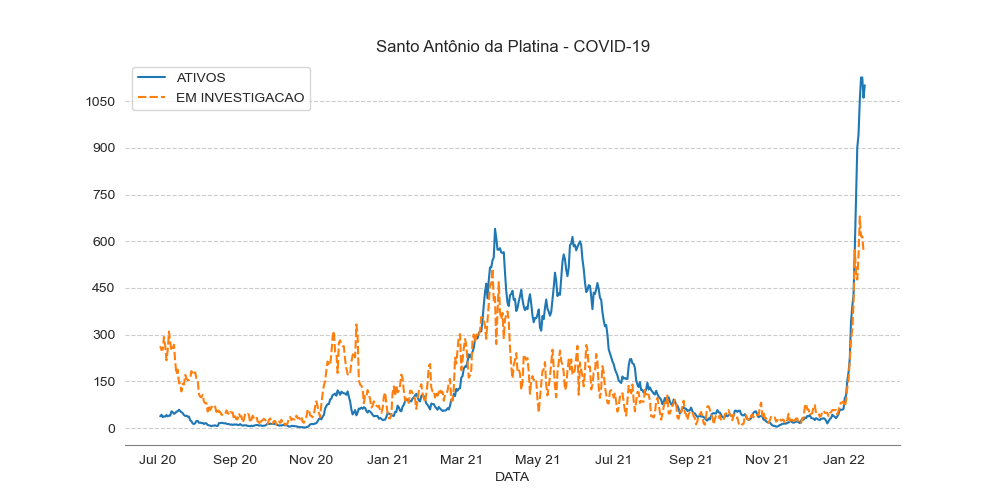
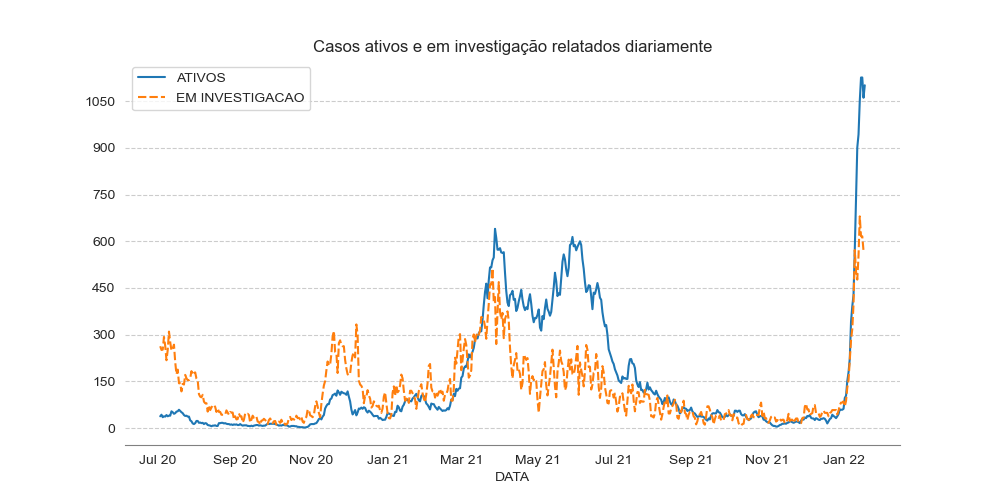
change chart 06 title

Changed region(s): [[0.31, 0.06, 0.713, 0.12]]

diff --git a/src/charts.py b/src/charts.py
@@ -115,7 +115,7 @@ def chart06_relacao_ativos_investigados(frame, outputfolder=out, filename='06-re
     ax = sns.lineplot(data=frame[['ATIVOS','EM INVESTIGACAO']],
                 palette="tab10"
                 )
-    _ = ax.set_title("Santo Antônio da Platina - COVID-19")
+    _ = ax.set_title("Casos ativos e em investigação relatados diariamente")
     ax.yaxis.set_major_locator(MaxNLocator(integer=True))
     ax.xaxis.set_major_formatter(mdates.DateFormatter("%b %y"))
     # ax.set_ylim([-10, 300])
